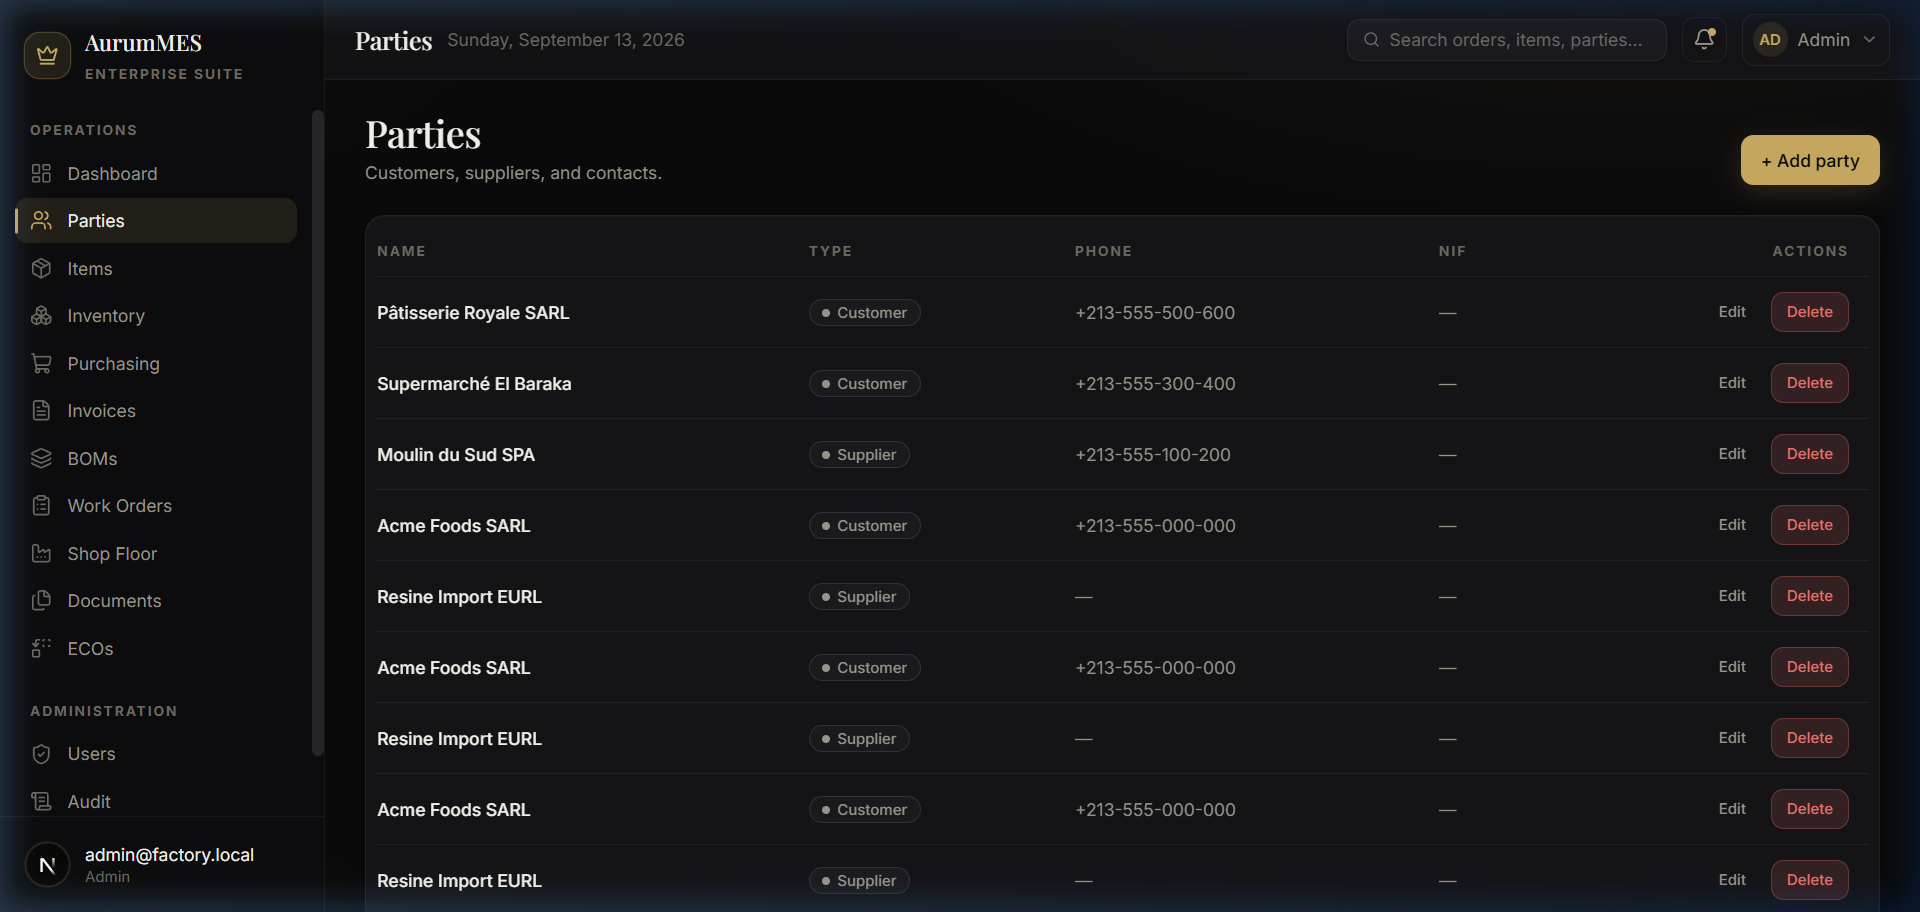
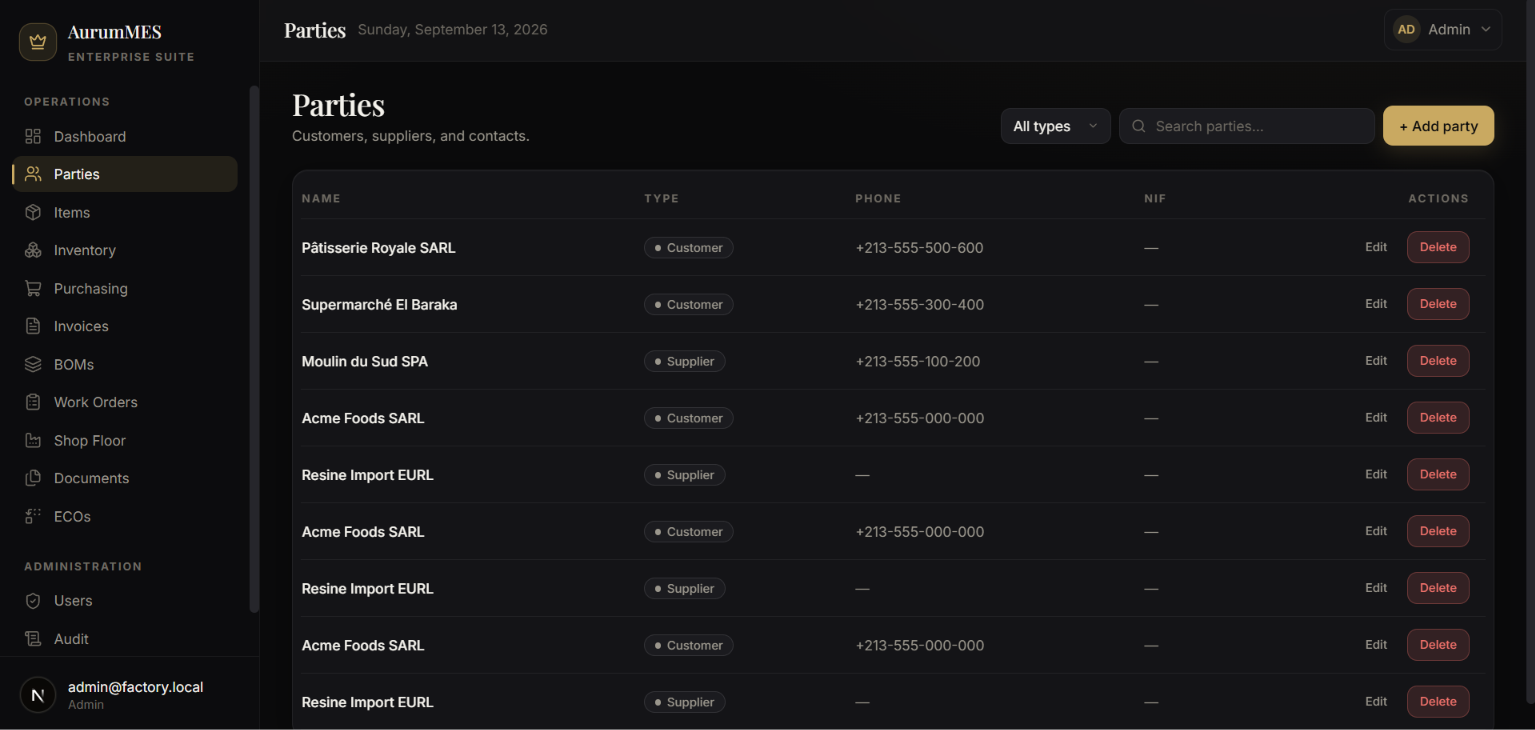
adding filter and updating screenshots

diff --git a/app/(app)/parties/page.tsx b/app/(app)/parties/page.tsx
@@ -1,5 +1,5 @@
 import Link from "next/link"
-import { desc, ilike, or } from "drizzle-orm"
+import { desc, ilike, or, eq } from "drizzle-orm"
 import { Users } from "lucide-react"
 import { db } from "@/db"
 import { parties } from "@/db/schema/parties"
@@ -8,14 +8,14 @@ import { currentUser } from "@/lib/session"
 import { can } from "@/lib/authz"
 import {
   PageHeader, Table, THead, TH, TBody, TR, TD,
-  StatusBadge, EmptyState, Button, buttonClass, SearchInput,
+  StatusBadge, EmptyState, Button, buttonClass, SearchInput, SelectFilter,
 } from "@/components/ui"
 import { Reveal } from "@/components/motion/reveal"
 
 export const dynamic = "force-dynamic"
 
-export default async function PartiesPage({ searchParams }: { searchParams: Promise<{ q?: string }> }) {
-  const { q } = await searchParams
+export default async function PartiesPage({ searchParams }: { searchParams: Promise<{ q?: string, type?: "customer" | "supplier" | "both" }> }) {
+  const { q, type } = await searchParams
   const user = await currentUser()
   const canWrite = !!user && can(user.role, "operator")
   const canDelete = !!user && can(user.role, "admin")
@@ -23,6 +23,9 @@ export default async function PartiesPage({ searchParams }: { searchParams: Prom
   const query = db.select().from(parties)
   if (q) {
     query.where(or(ilike(parties.name, `%${q}%`), ilike(parties.phone, `%${q}%`), ilike(parties.nif, `%${q}%`)))
+  }
+  if (type) {
+    query.where(eq(parties.type, type))
   }
   const rows = await query.orderBy(desc(parties.createdAt))
 
@@ -33,6 +36,15 @@ export default async function PartiesPage({ searchParams }: { searchParams: Prom
         description="Customers, suppliers, and contacts."
         actions={
           <>
+            <SelectFilter
+              paramName="type"
+              placeholder="All types"
+              options={[
+                { label: "Customer", value: "customer" },
+                { label: "Supplier", value: "supplier" },
+                { label: "Both", value: "both" },
+              ]}
+            />
             <SearchInput placeholder="Search parties..." />
             {canWrite && <Link href="/parties/new" className={buttonClass()}>+ Add party</Link>}
           </>

diff --git a/components/ui/select-filter.tsx b/components/ui/select-filter.tsx
@@ -1,0 +1,55 @@
+"use client"
+
+import { useRouter, usePathname, useSearchParams } from "next/navigation"
+import { useTransition } from "react"
+
+interface Option {
+  label: string
+  value: string
+}
+
+export function SelectFilter({ paramName, options, placeholder = "Filter..." }: { paramName: string, options: Option[], placeholder?: string }) {
+  const router = useRouter()
+  const pathname = usePathname()
+  const searchParams = useSearchParams()
+  const [isPending, startTransition] = useTransition()
+  
+  const currentValue = searchParams.get(paramName) ?? ""
+
+  const handleChange = (e: React.ChangeEvent<HTMLSelectElement>) => {
+    const val = e.target.value
+    const params = new URLSearchParams(searchParams.toString())
+    if (val) {
+      params.set(paramName, val)
+    } else {
+      params.delete(paramName)
+    }
+    startTransition(() => {
+      router.replace(`${pathname}?${params.toString()}`)
+    })
+  }
+
+  return (
+    <div className="relative flex items-center">
+      <select
+        value={currentValue}
+        onChange={handleChange}
+        className="h-9 rounded-control border border-line bg-surface-2 px-3 text-sm text-ink outline-none transition-colors focus:border-gold focus:ring-1 focus:ring-gold appearance-none pr-8 cursor-pointer"
+      >
+        <option value="">{placeholder}</option>
+        {options.map(opt => (
+          <option key={opt.value} value={opt.value}>{opt.label}</option>
+        ))}
+      </select>
+      {/* Custom dropdown arrow */}
+      <div className="pointer-events-none absolute right-3 top-1/2 -translate-y-1/2">
+        <svg xmlns="http://www.w3.org/2000/svg" width="12" height="12" viewBox="0 0 24 24" fill="none" stroke="currentColor" strokeWidth="2" strokeLinecap="round" strokeLinejoin="round" className="text-ink-faint">
+          <path d="m6 9 6 6 6-6"/>
+        </svg>
+      </div>
+      {isPending && (
+        <span className="absolute -right-5 h-3 w-3 animate-spin rounded-full border-2 border-gold border-t-transparent" />
+      )}
+    </div>
+  )
+}

diff --git a/components/ui/index.ts b/components/ui/index.ts
@@ -9,3 +9,4 @@ export * from "./page-header"
 export * from "./section-label"
 export * from "./empty-state"
 export * from "./search-input"
+export * from "./select-filter"
